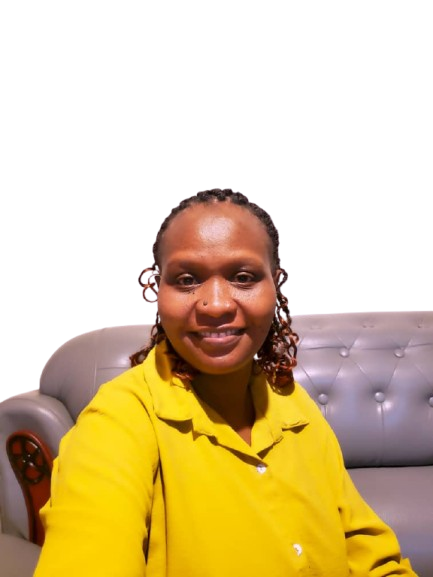
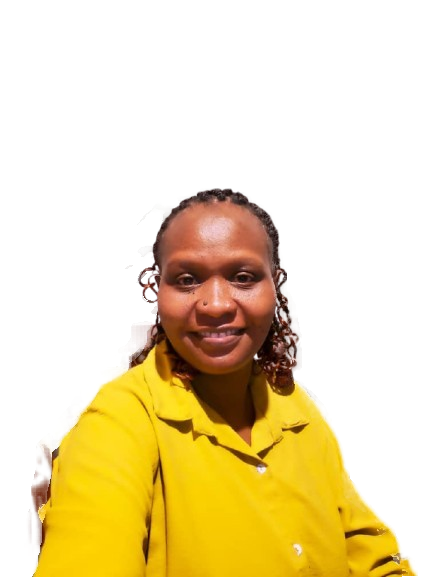
Rename of team member and hr picture remove background

Changed region(s): [[0.6305, 0.4679, 1.0, 1.0], [0.0, 0.5615, 0.3603, 1.0]]

diff --git a/resources/views/pages/about_us.blade.php b/resources/views/pages/about_us.blade.php
@@ -201,7 +201,7 @@
                         <img src="{{ asset('img/elodie.png') }}" alt="Customer Relations Manager" class="w-full h-full object-cover object-top mt-8 transition-transform duration-500 hover:scale-110">
                     </div>
                     <div class="p-6">
-                        <h3 class="text-xl font-bold text-gray-800">Elodie Akoyiremeye</h3>
+                        <h3 class="text-xl font-bold text-gray-800">Elodie Octavie Akoyiremeye</h3>
                         <p class="text-secondary font-medium mb-3">Customer Relations Manager</p>
                         <p class="text-gray-600 mb-4">Elodie is dedicated to enhancing customer satisfaction and fostering long-term relationships.</p>
                         
